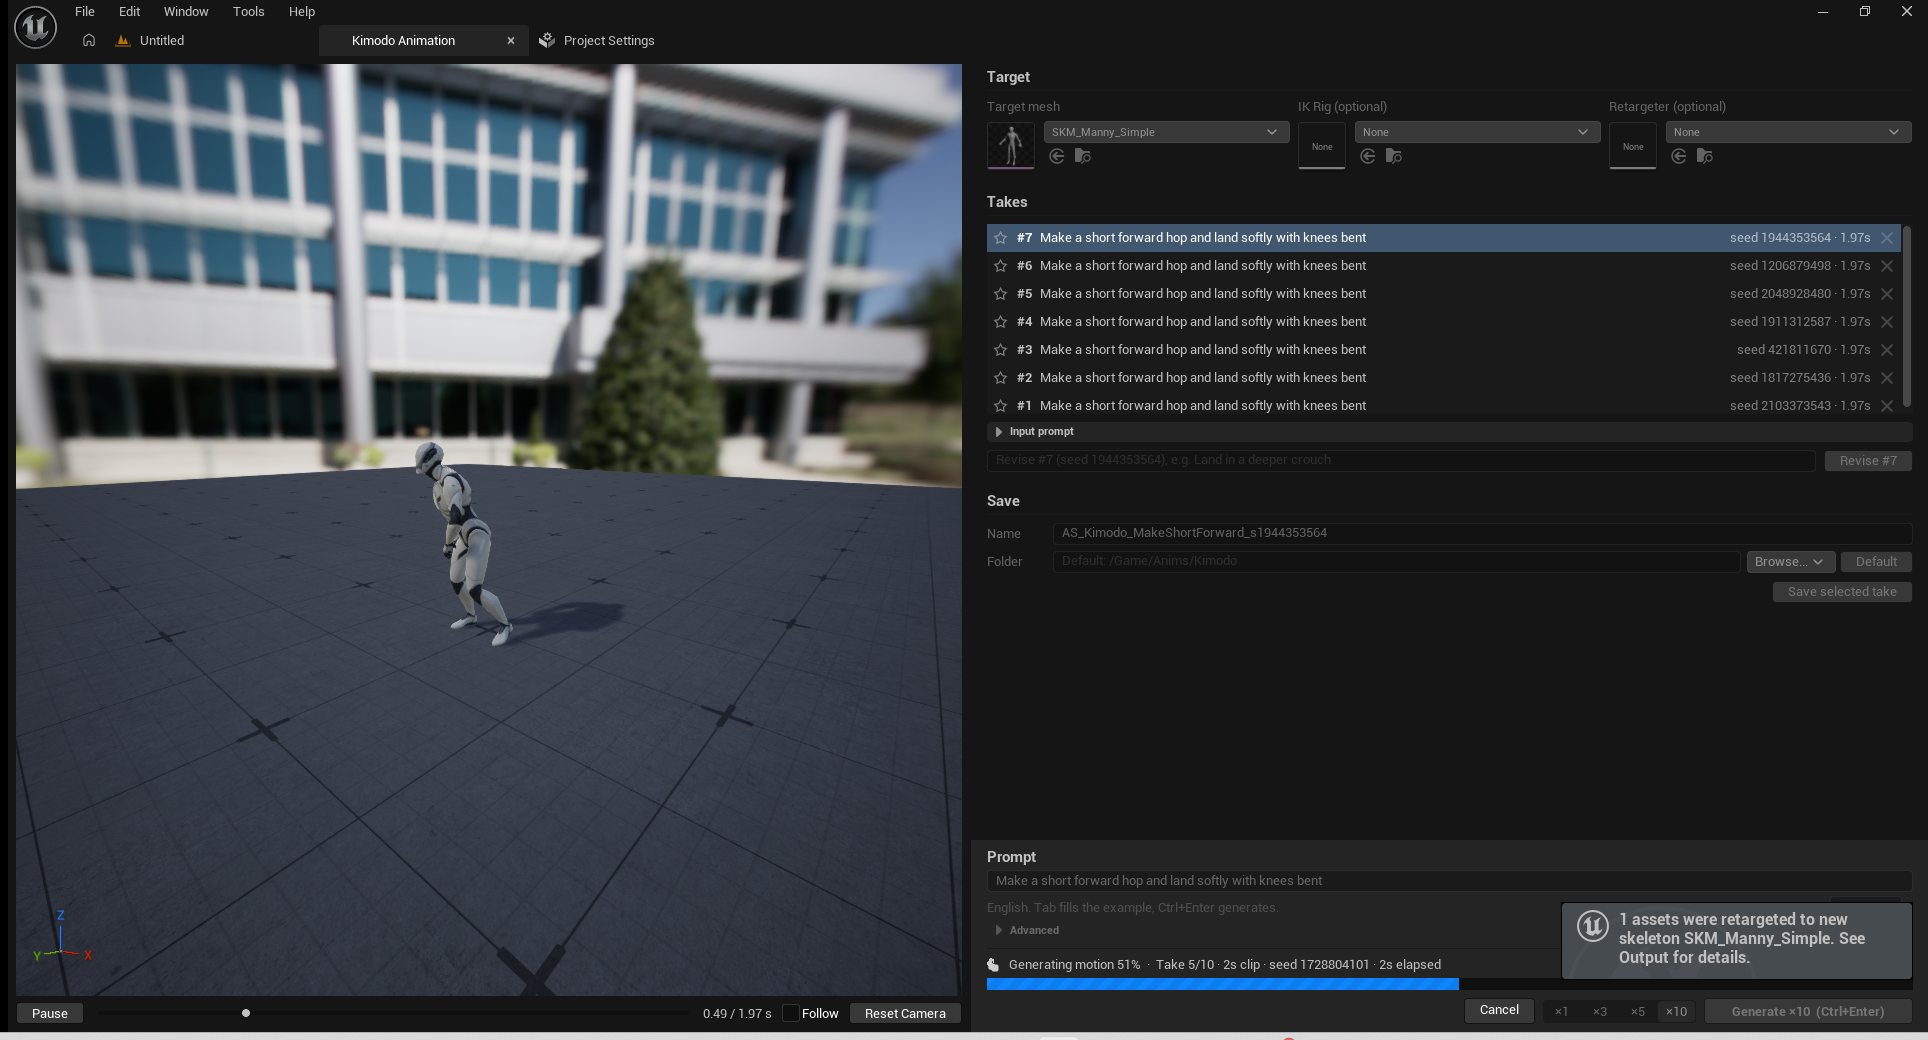
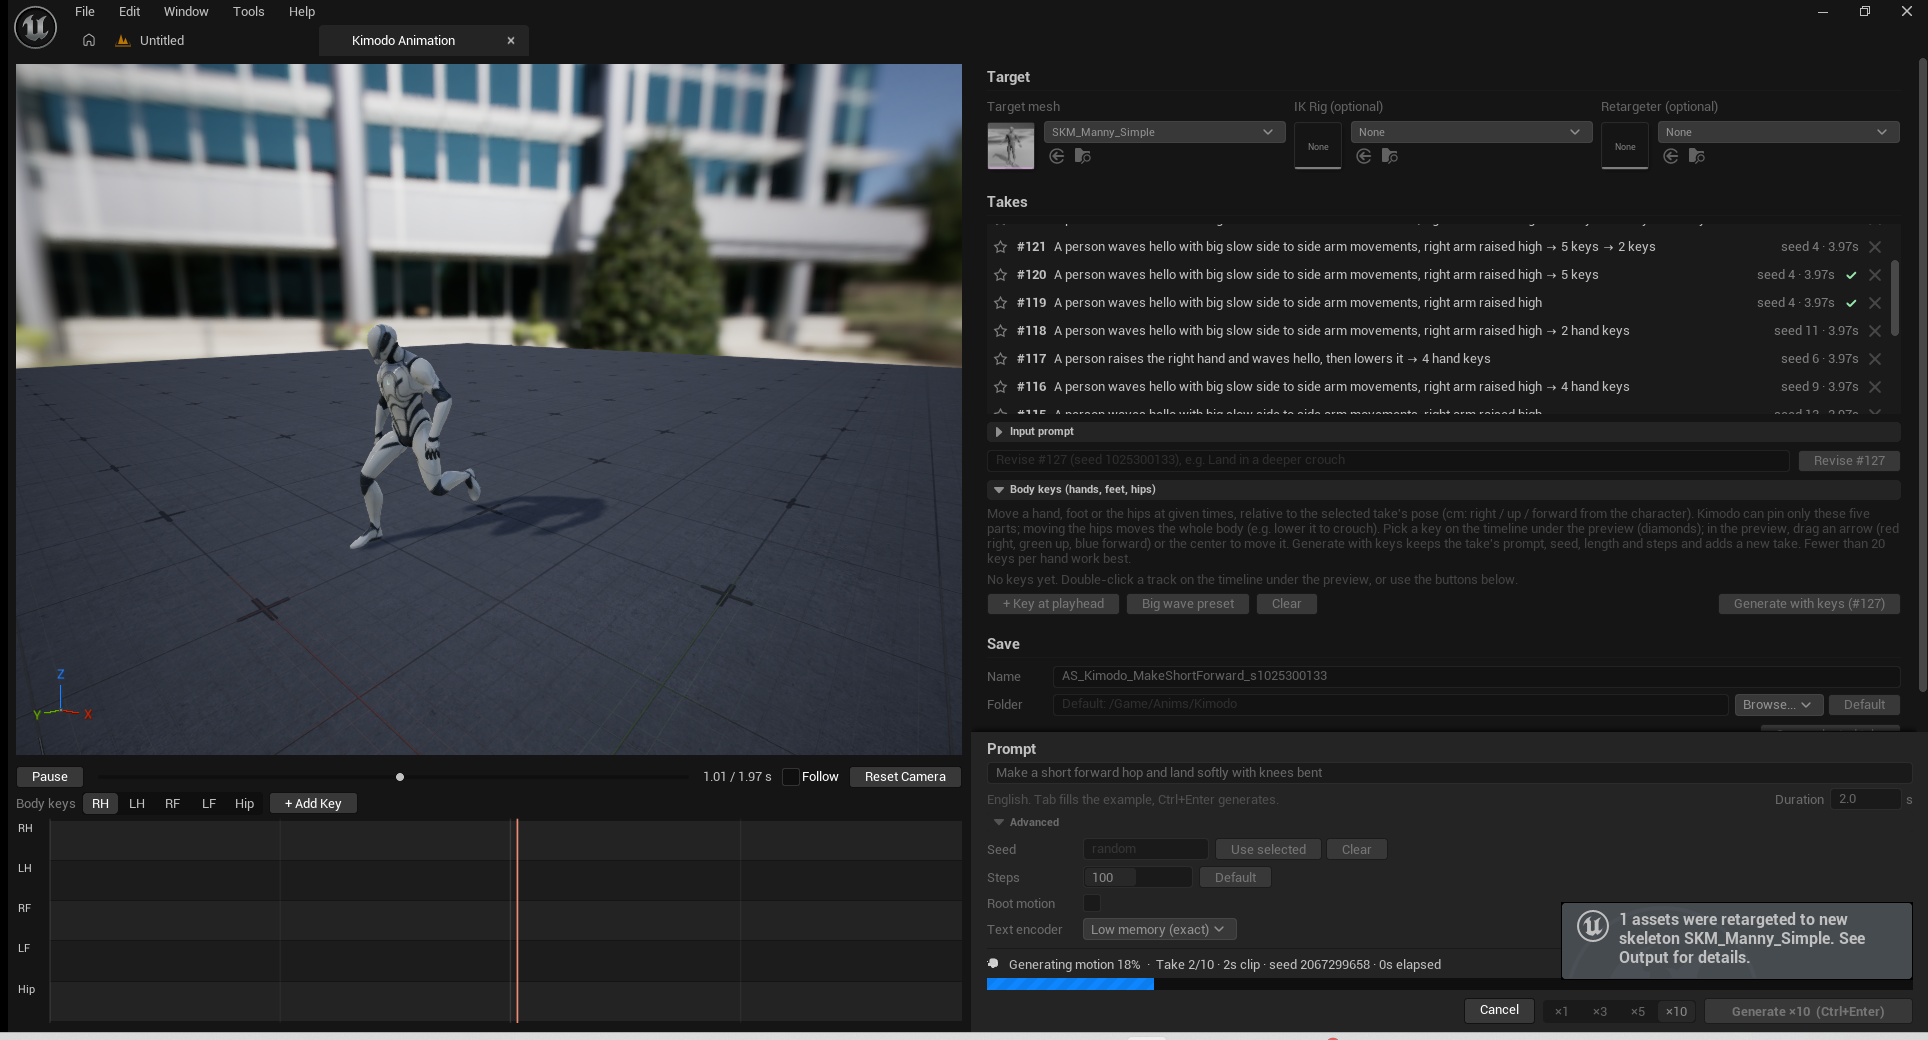
docs: new screenshots and Body keys guide for 1.2.0
- Retake panel, batch, prompt and root-motion screenshots for the new layout
- Add body-keys and body-keys-list screenshots; reorganize the Body keys
  section (steps, timeline, gizmo, list, keys per take, tips)
- Fix the panel Body keys help text for the engine gizmo colors

diff --git a/Source/KimodoAnimation/Private/KimodoAnimationModule.cpp b/Source/KimodoAnimation/Private/KimodoAnimationModule.cpp
@@ -1152,8 +1152,8 @@ private:
 					.ColorAndOpacity(FSlateColor::UseSubduedForeground())
 					.Text(LOCTEXT("HandKeysHelp", "Move a hand, foot or the hips at given times, relative to the selected take's pose (cm: right / up / forward from the character). "
 						"Kimodo can pin only these five parts; moving the hips moves the whole body (e.g. lower it to crouch). "
-						"Pick a key on the timeline under the preview (diamonds); in the preview, drag an arrow (red right, green up, blue forward) or the center to move it. "
-						"Generate with keys keeps the take's prompt, seed, length and steps and adds a new take. Fewer than 20 keys per hand work best."))
+						"Pick a key on the timeline under the preview (diamonds); in the preview, drag the move gizmo (red forward, green right, blue up) to move it. "
+						"Each take keeps its own keys. Generate with keys keeps the take's prompt, seed, length and steps and adds a new take. Fewer than 20 keys per part work best."))
 				]
 				+ SVerticalBox::Slot().AutoHeight()
 				[

diff --git a/README.md b/README.md
@@ -5,7 +5,7 @@ NVIDIA의 모션 생성 모델 [Kimodo](https://github.com/nv-tlabs/kimodo)를 *
 
 버전 **1.2.0** · 변경 내역은 [CHANGELOG.md](CHANGELOG.md) · 라이선스 [MIT](LICENSE)
 
-![Kimodo Animation 패널: 왼쪽 미리보기, 오른쪽 위 Target · Takes · Save, 오른쪽 아래 Prompt와 Generate](Resources/Readme/panel.png)
+![Kimodo Animation 패널: 왼쪽 미리보기(이동 기즈모)와 아래 Body keys 타임라인, 오른쪽 위 Target · Takes · Body keys, 오른쪽 아래 Prompt와 Generate](Resources/Readme/panel.png)
 
 ```
 "Walk forward four steps"
@@ -185,13 +185,14 @@ Kimodo 공식 문서를 이 플러그인 기준으로 요약했습니다. 원문
 
 패널은 **왼쪽 미리보기**와 **오른쪽 영역**으로 나뉩니다. 가운데 경계를 끌어 폭을 바꿀 수 있습니다.
 
-- 오른쪽 위(스크롤): **Target** → **Takes** → **Save**
+- 왼쪽: 3D 미리보기, 그 아래 재생 바와 [Body keys](#body-keys-손발골반-키프레임) 키 바·타임라인. 미리보기와 아래 영역 사이 경계를 끌어 높이를 바꿀 수 있습니다.
+- 오른쪽 위(스크롤): **Target** → **Takes** → **Body keys** → **Save**
 - 오른쪽 아래(항상 보임): **Prompt** 입력, 진행 상태, `×1 ×3 ×5 ×10` / Cancel / **Generate**. 채팅 입력창처럼 입력하고 바로 `Ctrl+Enter`로 생성합니다. Kimodo를 설치하기 전에는 이 입력 영역 대신 설치 안내가 보입니다.
 
 ### 미리보기 (왼쪽)
 
 - **좌클릭 드래그**: 회전 · **휠**: 줌 · **우클릭 + WASD**: 이동(UE 뷰포트와 같음)
-- **Play / Pause**, 타임라인 슬라이더로 원하는 포즈에서 멈추기, 시간 표시
+- **Play / Pause**, 재생 슬라이더로 원하는 포즈에서 멈추기, 시간 표시
 - **Follow**: 재생 중 카메라가 캐릭터(`PreviewFollowBone`, 기본 `pelvis`)를 수평으로 따라감. 기본은 꺼져 있음
 - **Reset Camera**: 처음 카메라 위치로
 - 루트 모션 클립은 실제로 이동하며, 바닥에 루트 경로(노란 선, 시작 초록 + / 끝 빨강 +)가 그려집니다
@@ -207,7 +208,7 @@ Kimodo 공식 문서를 이 플러그인 기준으로 요약했습니다. 원문
 
 ### Prompt (오른쪽 아래)
 
-![Prompt 입력, Duration, 펼친 Advanced, ×N 선택과 Generate](Resources/Readme/prompt.png)
+![Prompt 입력, Duration, 펼친 Advanced(Seed · Steps · Root motion · Text encoder), ×N 선택과 Generate](Resources/Readme/prompt.png)
 
 - **동작 설명**(영어). 빈 칸에서 `Tab`을 누르면 예시 문장이 들어갑니다. 길게 쓰면 입력칸 안에서 스크롤됩니다.
   - 한국어로 쓰려면 [프롬프트 해석](#설정-항목)(InterpretAgents)을 설정해야 합니다. 설정이 없으면 영어만 받습니다.
@@ -217,7 +218,7 @@ Kimodo 공식 문서를 이 플러그인 기준으로 요약했습니다. 원문
   - Seed를 비우면 테이크마다 무작위, 넣으면 `seed, seed+1, …`을 씁니다.
   - 진행 중에는 `Take 2/5`처럼 표시되고, Cancel하면 이미 만든 테이크는 남습니다. Revise는 항상 1개입니다.
 
-  ![×10 생성 중: 상태 줄에 Take 5/10, 만들어진 테이크가 위 목록에 차례로 쌓임](Resources/Readme/batch.png)
+  ![×10 생성 중: 상태 줄에 Take 2/10과 진행 막대, 만들어진 테이크가 위 목록에 차례로 쌓임](Resources/Readme/batch.png)
 
 - **Advanced**(기본은 접힘, 펼친 상태는 다음에 패널을 열 때도 유지):
   - **Seed**: 비우면 무작위. 숫자를 넣으면 같은 결과를 재현. `Use selected`는 고른 테이크의 시드를, `Clear`는 비우기
@@ -236,34 +237,58 @@ Kimodo 공식 문서를 이 플러그인 기준으로 요약했습니다. 원문
 - **Input prompt**(접힘): 고른 테이크를 만들 때 Kimodo에 실제로 보낸 프롬프트(해석을 썼다면 해석 결과)를 보여 줍니다. 드래그해 `Ctrl+C`로 복사할 수 있습니다.
 - **Revise**(수정 칸에서 `Enter`): 고른 테이크를 기준으로 “조금 더 높이 점프” 같은 수정 요청을 덧붙여 다시 생성. 시드는 유지됩니다.
   - 버튼(`Revise #7`)과 수정 칸 안내문(`Revise #7 (seed 1234), …`)에 기준 테이크가 표시됩니다. 테이크를 고르지 않았으면 수정 칸이 꺼져 있습니다.
-
-  ![#13을 기준으로 수정 요청 입력: Land in a deeper crouch → Revise #13](Resources/Readme/revise.png)
+- 손·발·골반 위치를 직접 정해 다시 만들려면 바로 아래 **Body keys**를 씁니다.
 
 ### Body keys (손·발·골반 키프레임)
 
-프롬프트만으로 원하는 위치·크기가 안 나올 때, 고른 테이크를 기준으로 **특정 시각에 손·발·골반이 있어야 할 위치**를 정해 다시 생성합니다(Kimodo end-effector 제약).
+프롬프트만으로 원하는 위치·크기가 안 나올 때, 고른 테이크를 기준으로 **특정 시각에 손·발·골반이 있어야 할 위치**를 정해 다시 생성합니다(Kimodo end-effector 제약). 시퀀서처럼 타임라인에 키를 찍고 미리보기에서 기즈모로 옮기는 방식입니다.
+
+![Body keys 편집: 미리보기에서 고른 키에 이동 기즈모, 다른 키는 하늘색 십자, 아래 타임라인에 RH·Hip 트랙의 ◆, 오른쪽에 키 목록](Resources/Readme/body-keys.png)
 
 - 정할 수 있는 부위: **RH 오른손, LH 왼손, RF 오른발, LF 왼발, Hip 골반**. Kimodo가 위치를 받는 부위는 이 다섯뿐이라 머리·팔꿈치 등은 따로 정할 수 없습니다.
 - 키 하나는 "그 시각에 그 부위의 위치(기준 위치 + 오프셋)·회전(기준 그대로)과 몸의 바닥 위치·높이·방향(기준 그대로)"을 고정합니다. **나머지 본(팔꿈치, 어깨, 허리, 머리…)은 고정하지 않고 Kimodo가 맞춰 새로 만듭니다.** 키 사이 시간도 자유입니다.
 - 골반 키는 몸 전체 위치·높이를 같이 옮깁니다(예: 위로 -20 cm → 무릎을 굽혀 앉는 쪽). 측정: 골반 -20 cm → 20.1 cm 내려감, 오른발 앞 +20 cm → 21.3 cm 이동.
 
-1. 기준이 될 테이크를 고릅니다(손 동작이 비슷한 것일수록 좋음).
-2. Takes 아래 **Body keys (hands, feet, hips)**를 펼치고 키를 추가합니다.
-   - **+ Key at playhead**: 미리보기를 원하는 시각에 멈추고 누르면 그 시각에 키가 생깁니다(부위는 미리보기 아래 키 바에서 고른 것).
-   - 목록에는 모든 키가 부위·시각 순으로 나오고, 고른 키 줄은 노랗게 표시됩니다. 한 부위에 같은 시각의 키는 하나뿐입니다(그 자리에 추가하면 있던 키가 선택됨).
-   - 키는 **테이크마다 따로** 저장됩니다. 다른 테이크를 고르면 그 테이크의 키를 불러오고, 고친 키는 그 테이크에 남습니다(세션 복원에도 포함). `Generate with keys`로 만든 테이크는 만들 때 쓴 키를 가지고 시작합니다.
-   - 각 줄: ◉ 선택, 시각(초), 부위(RH/LH/RF/LF/Hip), 오프셋 cm(**오른쪽 / 위 / 앞**, 캐릭터 기준. 음수는 왼쪽·아래·뒤), ✕ 삭제
-   - **Big wave preset**: 오른손을 0.6초마다 좌우 30 cm씩 옮기는 키를 채웁니다(크고 느린 "안녕" 손 흔들기).
-   - **타임라인(미리보기 아래)**: 부위별 트랙(RH/LH/RF/LF/Hip)에 키가 ◆로 보입니다. ◆ 클릭 = 선택(재생 위치 이동), ◆ 좌우 드래그 = 시각 변경, 트랙 **더블클릭** = 그 자리에 키 추가, **우클릭** = 그 자리에 부위별 키 추가·◆ 삭제 메뉴, 빈 곳 클릭·드래그 = 재생 위치 이동, `Delete` = 선택한 키 삭제, `K` = 재생 위치에 키 추가.
-   - **키 추가 바**: 타임라인 위에서 부위(RH/LH/RF/LF/Hip)를 고르고 **+ Add Key**를 누르면 재생 위치에 키가 생깁니다.
-   - 미리보기와 아래 영역(재생 바·키 바·타임라인) 사이 경계를 끌어 아래 영역 높이를 바꿀 수 있고, 트랙도 같이 커집니다.
-   - **미리보기 기즈모(엔진 이동 기즈모)**: 고른 키의 목표에 UE 표준 이동 기즈모가 보입니다. 캐릭터 기준으로 **빨강 X = 앞, 초록 Y = 오른쪽, 파랑 Z = 위**입니다. 화살표는 그 축으로, 화살표 사이 사각형은 두 축 평면으로 움직이며, 값(cm)은 Body keys 칸에 바로 반영됩니다.
-   - 카메라는 엔진 뷰포트 방식입니다: 좌클릭 드래그 = 궤도 회전, 휠 = 줌, 우클릭 + WASD = 이동.
-   - 미리보기에서 다른 키는 하늘색 십자, 고른 키는 기준 위치(흰 십자)에서 목표까지 선으로 보입니다.
-3. **Generate with keys (#N)**: 그 테이크의 프롬프트·시드·길이·스텝 그대로, 손만 키 위치로 옮겨 새 테이크를 만듭니다. 이름은 `원래 프롬프트 → 5 hand keys`.
+**사용 순서**
 
-- 오프셋은 **기준 테이크의 그 시각 손 위치에서** 얼마나 옮길지입니다. 그 시각의 전신 자세는 기준 테이크 것을 씁니다.
-- 손마다 키는 20개 미만(Kimodo 권장). 키 사이 간격이 넓으면(0.8초 이상) 그 사이에 Kimodo가 동작을 더 넣을 수 있어, 0.5~0.7초 간격이 안정적입니다.
+1. 기준이 될 테이크를 고릅니다(동작이 비슷한 것일수록 좋음). 미리보기 아래에 키 바와 타임라인이 나타납니다.
+2. 키를 추가합니다: 키 바에서 부위를 고르고 **+ Add Key**(재생 위치에 추가), 또는 타임라인 트랙을 **더블클릭**·**우클릭**.
+3. 미리보기에서 **이동 기즈모**를 끌어 그 부위가 갈 위치를 정합니다(값은 목록의 cm 칸에 바로 반영).
+4. **Generate with keys (#N)**: 그 테이크의 프롬프트·시드·길이·스텝 그대로, 키를 준 부위만 키 위치로 옮겨 새 테이크를 만듭니다. 이름은 `원래 프롬프트 → 5 keys`.
+
+**타임라인 (미리보기 아래)**
+
+- 부위별 트랙(RH/LH/RF/LF/Hip)에 키가 ◆로 보입니다. 고른 키는 노란 ◆, 빨간 세로선은 재생 위치입니다.
+- ◆ 클릭 = 선택(재생 위치가 그 시각으로), ◆ 좌우 드래그 = 시각 변경, 빈 곳 클릭·드래그 = 재생 위치 이동
+- 트랙 **더블클릭** = 그 자리에 키 추가, **우클릭** = 그 자리에 부위별 키 추가·◆ 삭제 메뉴
+- `Delete` = 선택한 키 삭제, `K` = 재생 위치에 키 추가
+- **키 바**: 부위(RH/LH/RF/LF/Hip)를 고르고 **+ Add Key**. 키를 고르면 부위도 그 키의 부위로 바뀝니다.
+- 한 부위에 같은 시각의 키는 하나뿐입니다. 그 자리에 추가하면 새로 만들지 않고 있던 키를 고릅니다.
+- 미리보기와 아래 영역 사이 경계를 끌어 높이를 바꿀 수 있고, 트랙도 같이 커집니다.
+
+**미리보기 (이동 기즈모)**
+
+- 고른 키의 목표 위치에 UE 표준 이동 기즈모가 보입니다. 캐릭터 기준으로 **빨강 = 앞, 초록 = 오른쪽, 파랑 = 위**입니다.
+- 화살표는 그 축으로, 화살표 사이 사각형은 두 축 평면으로 움직입니다. 기즈모 밖을 끌면 평소처럼 카메라가 돕니다.
+- 다른 키는 하늘색 십자, 고른 키는 기준 위치(흰 십자)에서 목표까지 선으로 보입니다.
+
+**목록 (Takes 아래 Body keys)**
+
+![Body keys 목록: 키마다 ◉ 선택, 시각, 부위, 오른쪽·위·앞 cm, ✕ 삭제, 아래 + Key at playhead · Big wave preset · Clear · Generate with keys](Resources/Readme/body-keys-list.png)
+
+- 모든 키가 부위·시각 순으로 나오고, 고른 키 줄은 노랗게 표시됩니다.
+- 각 줄: ◉ 선택, 시각(초), 부위, 오프셋 cm(**오른쪽 / 위 / 앞**, 캐릭터 기준. 음수는 왼쪽·아래·뒤), ✕ 삭제
+- **+ Key at playhead**: 재생 위치에 키 추가(부위는 키 바에서 고른 것) · **Big wave preset**: 오른손을 0.6초마다 좌우 30 cm씩 옮기는 키(크고 느린 "안녕" 손 흔들기) · **Clear**: 모두 지우기
+
+**테이크마다 따로 저장**
+
+- 다른 테이크를 고르면 그 테이크의 키를 불러오고, 고친 키는 그 테이크에 남습니다(세션 복원에도 포함).
+- `Generate with keys`로 만든 테이크는 만들 때 쓴 키를 가지고 시작하므로, 결과를 보고 키를 조금 고쳐 다시 만드는 식으로 반복할 수 있습니다.
+
+**팁과 한계**
+
+- 오프셋은 **기준 테이크의 그 시각 그 부위 위치에서** 얼마나 옮길지입니다. 그 시각의 전신 자세는 기준 테이크 것을 씁니다.
+- 부위마다 키는 20개 미만(Kimodo 권장). 키 사이 간격이 넓으면(0.8초 이상) 그 사이에 Kimodo가 동작을 더 넣을 수 있어, 0.5~0.7초 간격이 안정적입니다.
 - 정확히 그 위치에 닿지는 않습니다(측정: 목표에서 2~8 cm). 모양을 잡는 용도입니다.
 - 예: "A person waves hello with big slow side to side arm movements, right arm raised high" seed 4 → Big wave preset: 흔드는 폭 25 cm·반 왕복 0.35초 → **67 cm·0.59초**.
 - 1.1.1 이전 테이크는 기준 파일이 없어 쓸 수 없습니다(다시 생성하면 됨).
@@ -283,6 +308,8 @@ Kimodo 공식 문서를 이 플러그인 기준으로 요약했습니다. 원문
 | `Ctrl+Enter` | Generate |
 | `Enter` (수정 칸) | Revise |
 | `Tab` (빈 입력 칸) | 예시 문장 입력 |
+| `K` (Body keys 타임라인) | 재생 위치에 키 추가 |
+| `Delete` / `Backspace` (Body keys 타임라인) | 선택한 키 삭제 |
 
 생성이 끝나거나 실패하면 에디터 오른쪽 아래에 알림이 뜹니다(다른 창을 보고 있어도 됨).
 
